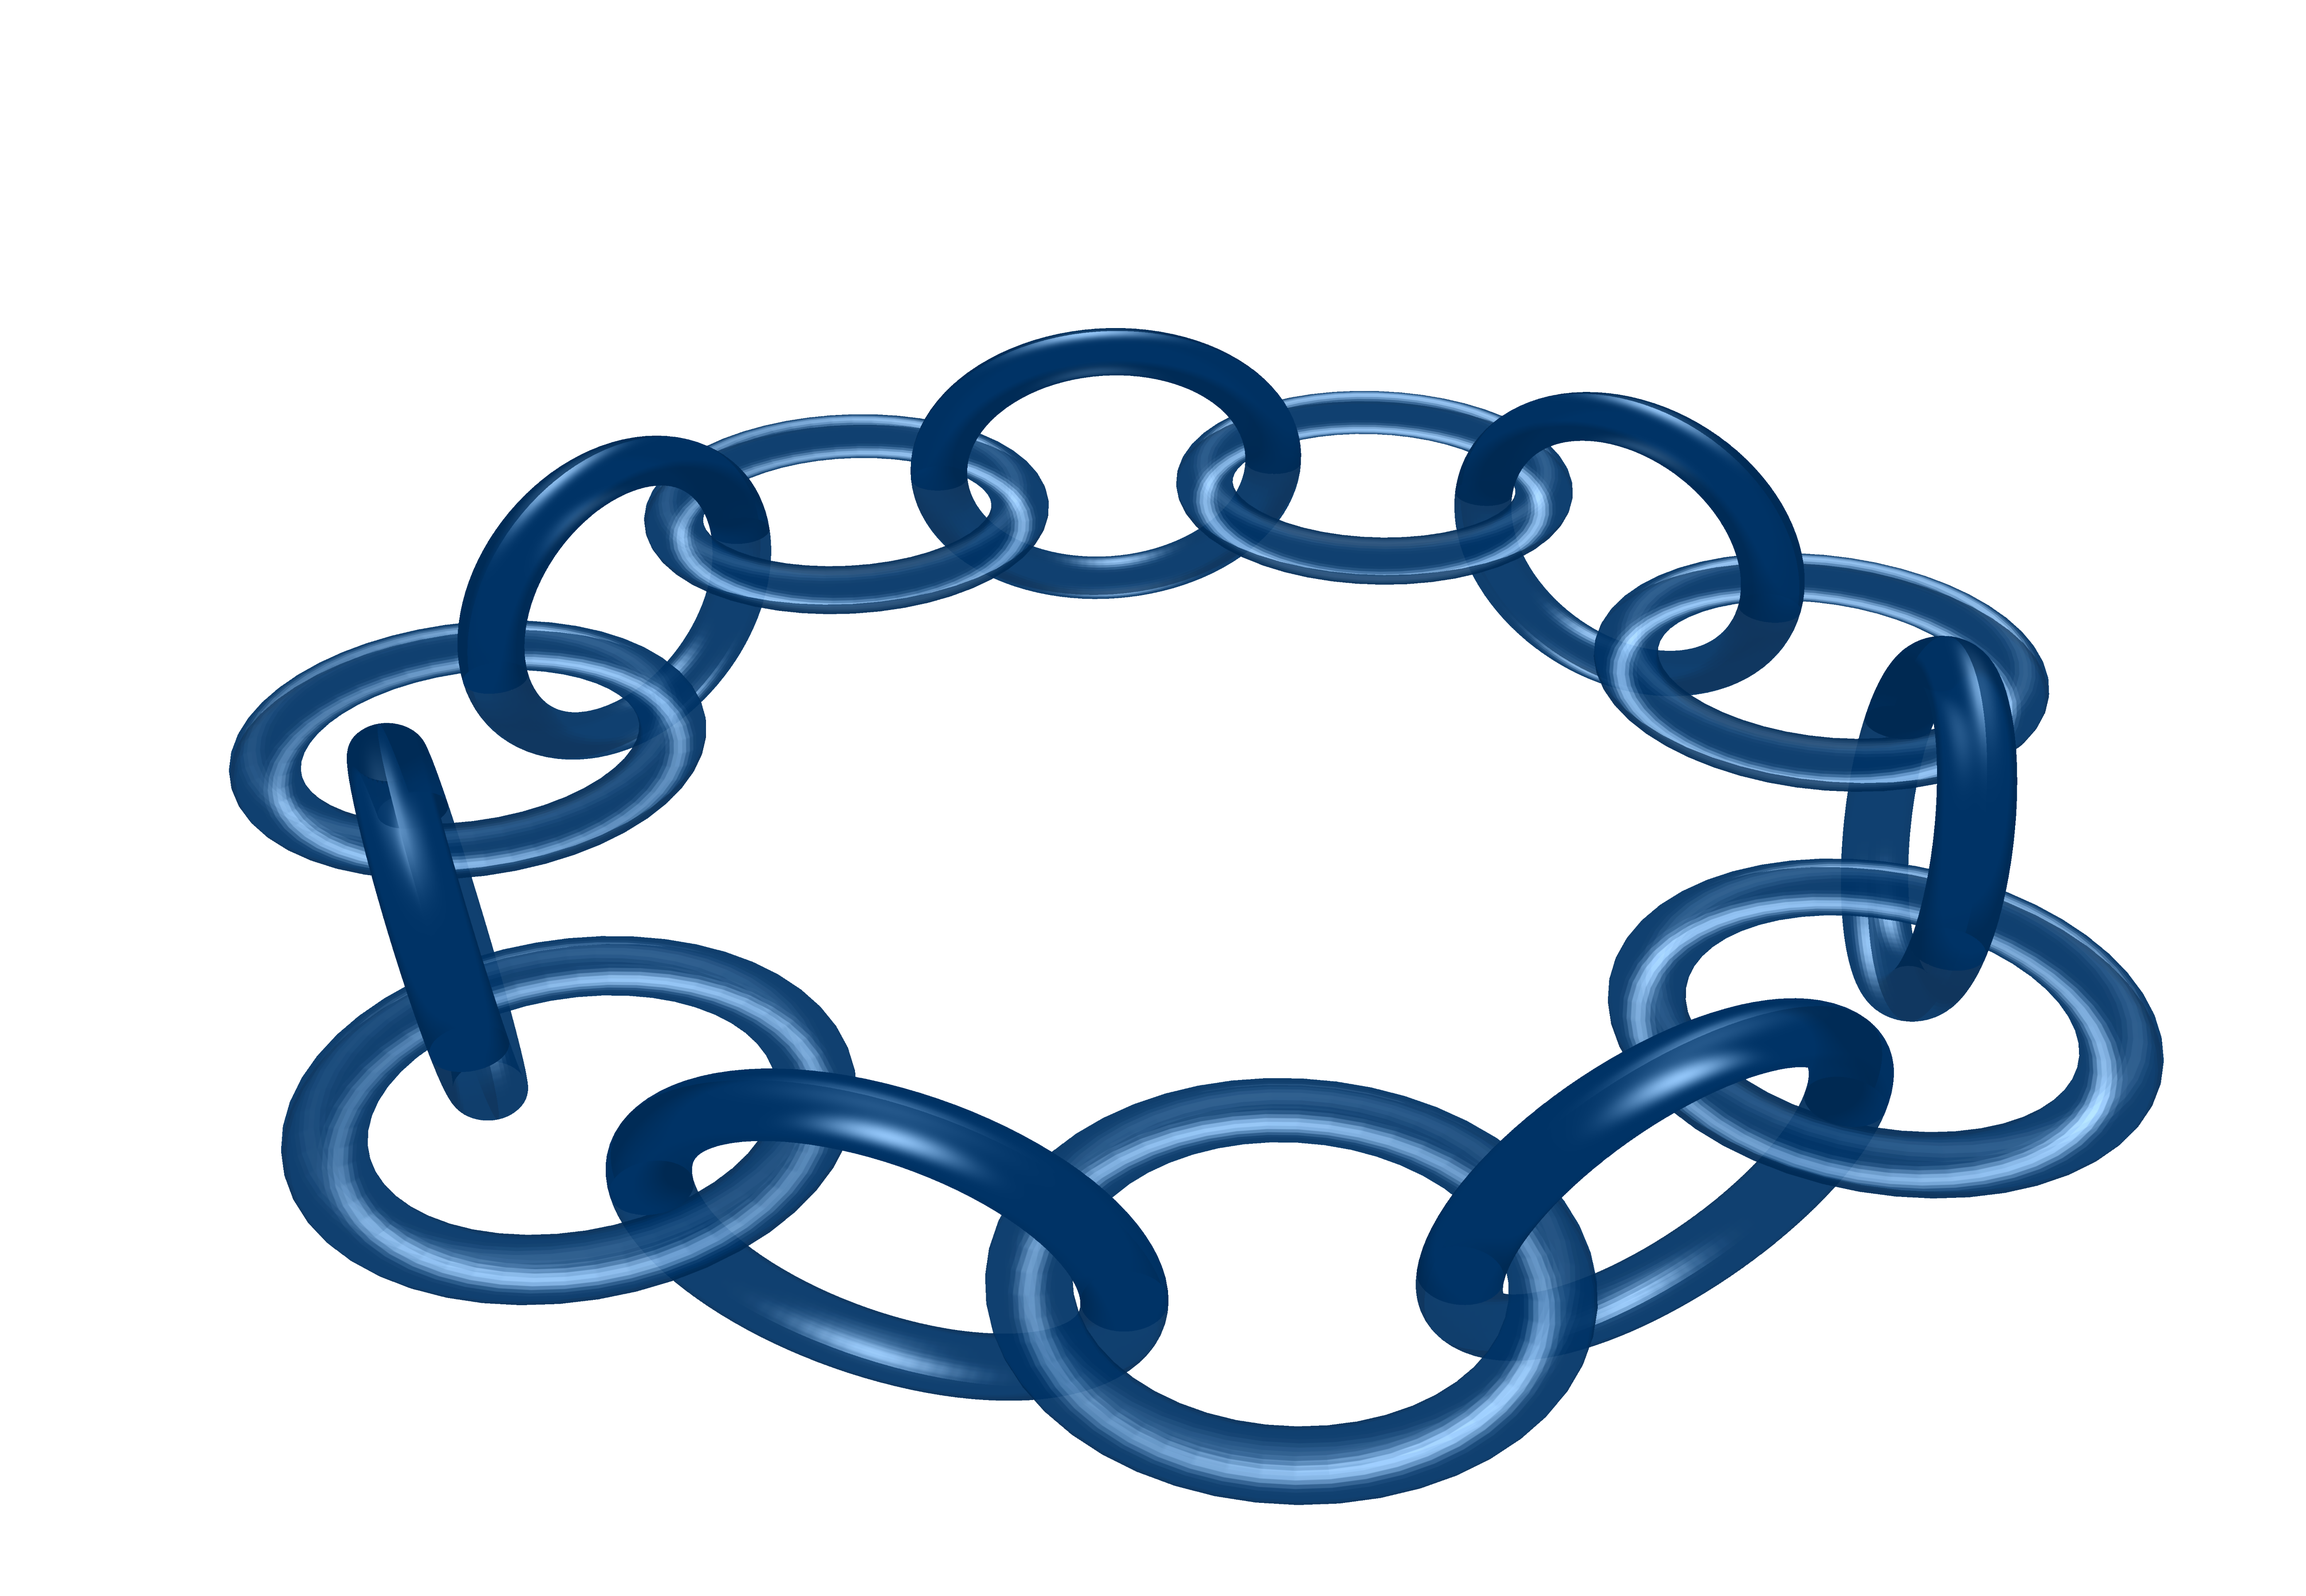
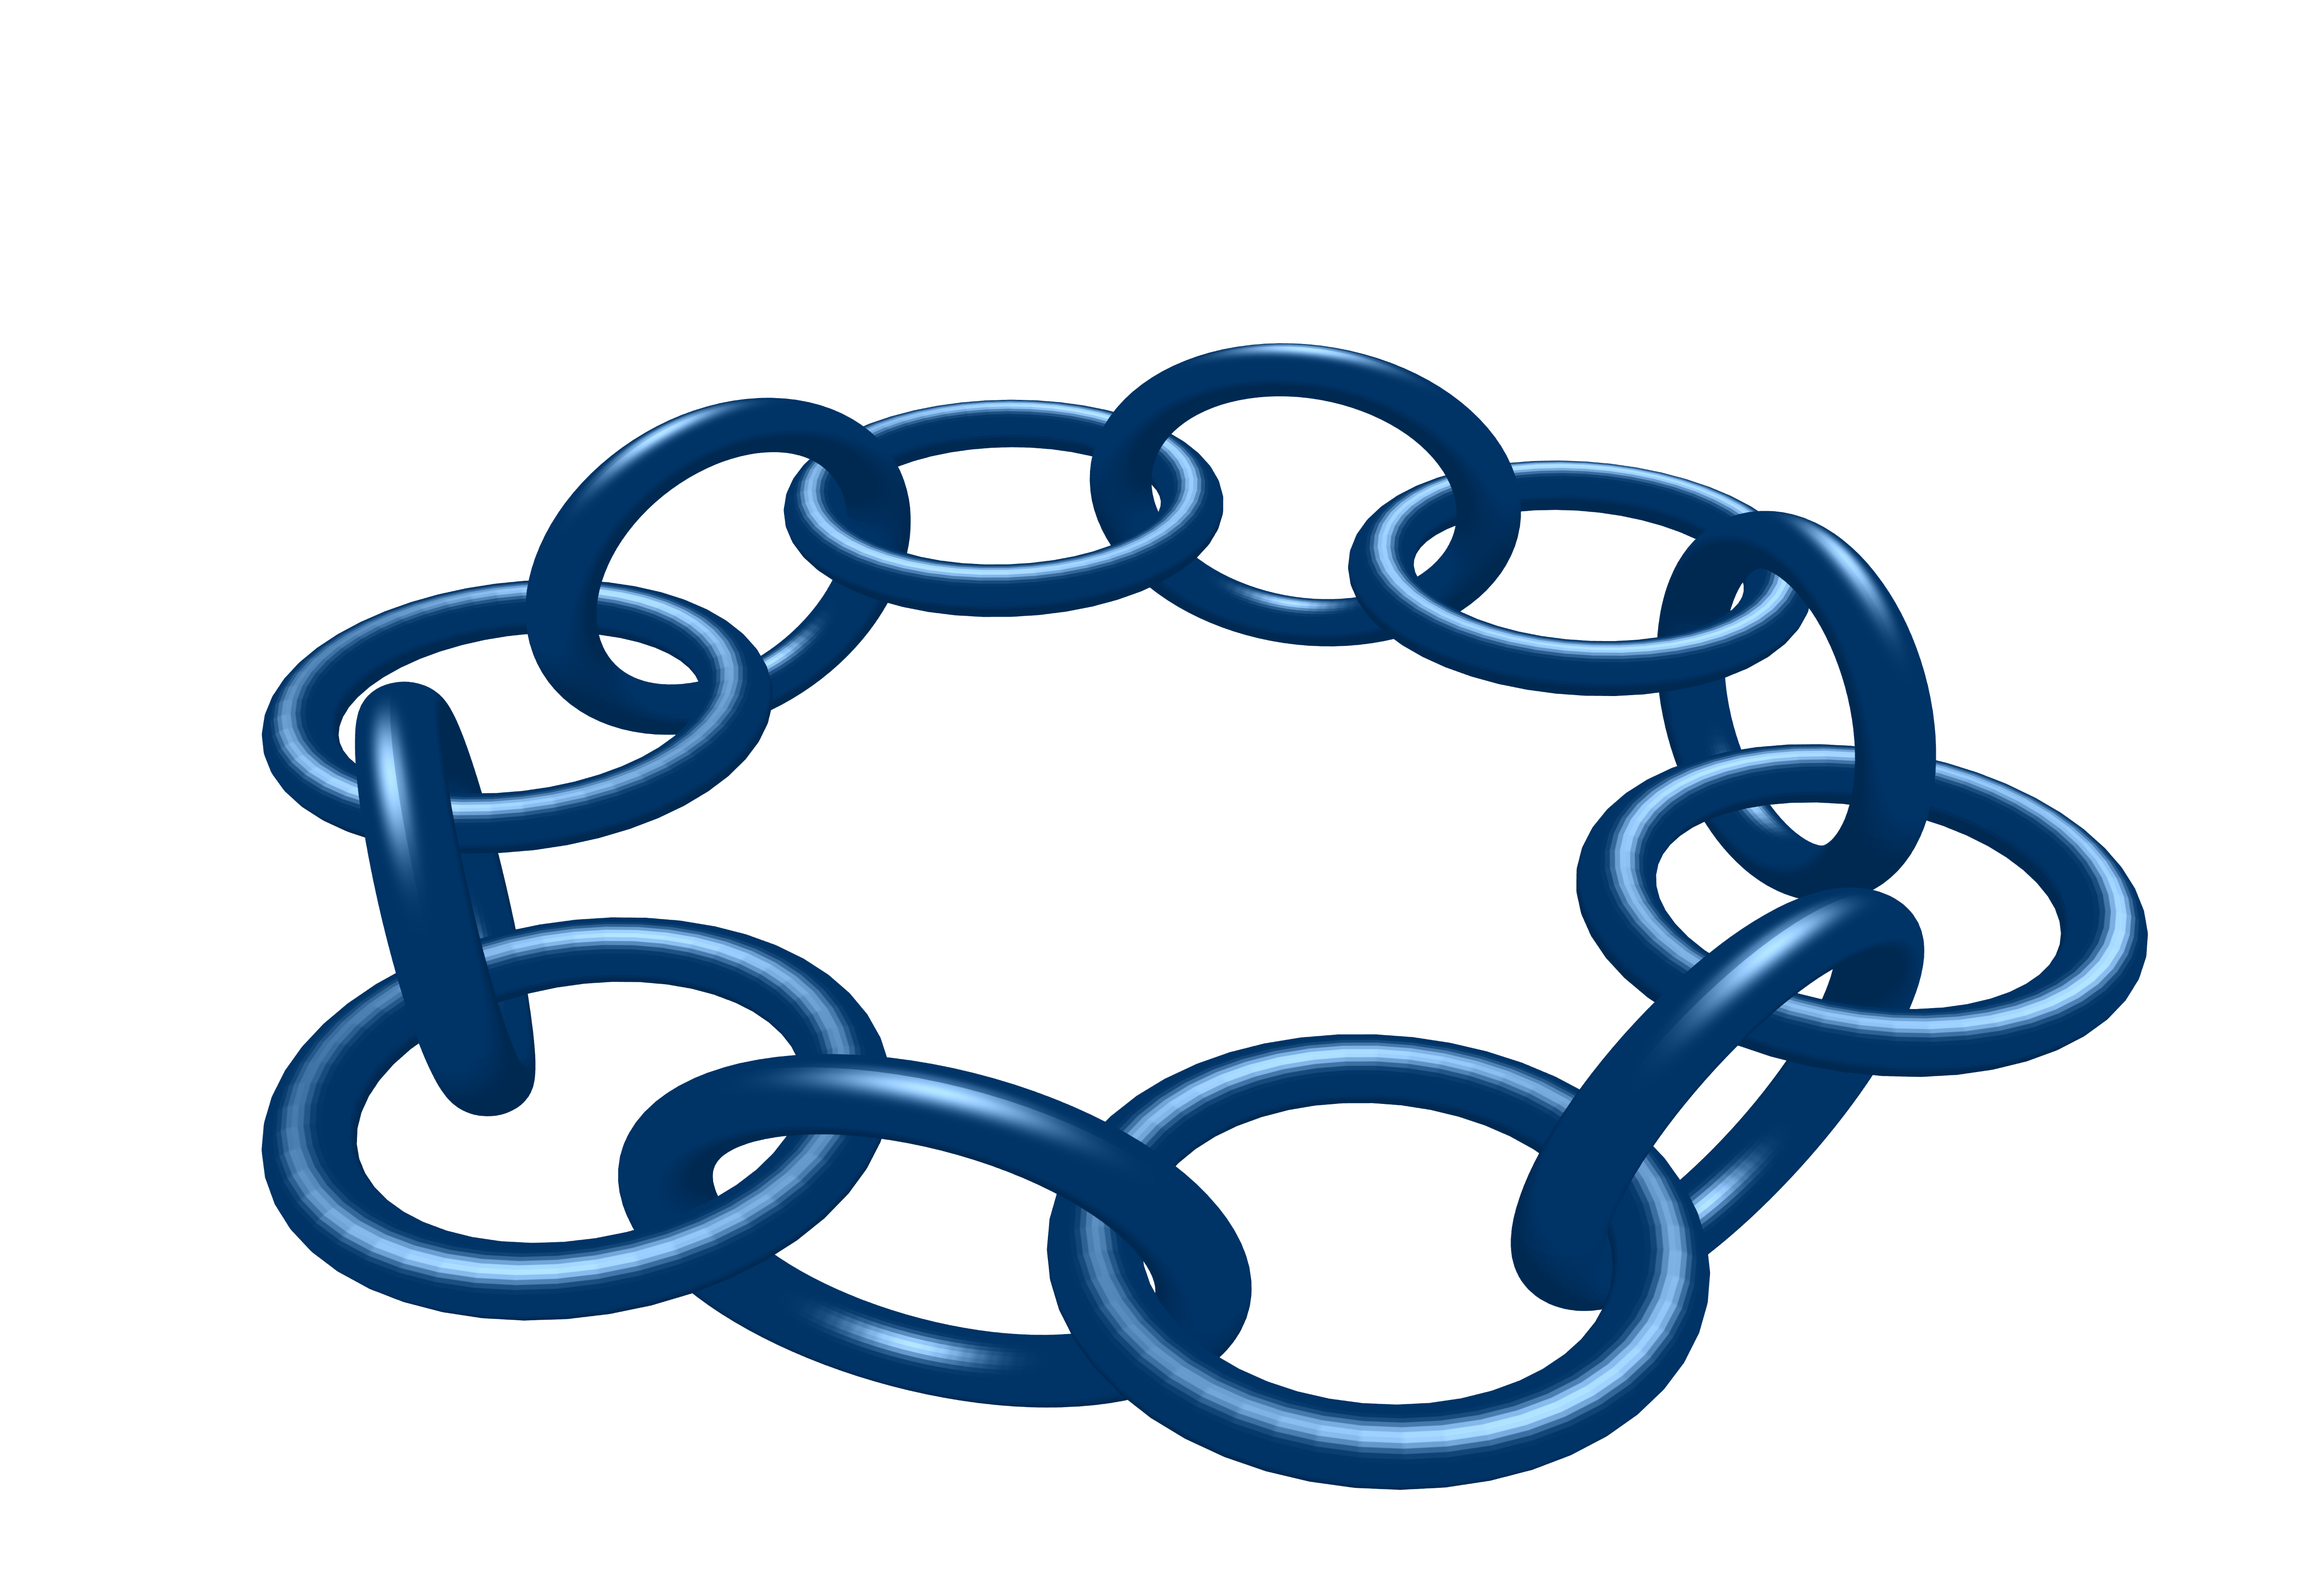
add level 3 to class and implementation

Changed region(s): [[0.0935, 0.1867, 0.9346, 0.9644]]

diff --git a/Antoines_NecklaceClass.py b/Antoines_NecklaceClass.py
@@ -8,13 +8,18 @@ class AntoineNecklace:
         self.N_l3 = N_l3
         self.tilt_angle_l1 = np.pi/2
         self.tilt_angle_l2 = np.pi/2
+        self.tilt_angle_l3 = np.pi/2
         self.lighting = [.2,.26,.3] #highlight, edge reflection, smoothness
-        self.color_alt_list = [
+        self.color_alt_list_l2 = [
             [[0, '#003366'], [1, '#003366']], # deep_blue
             [[0, '#A04606'], [1, '#A04606']]  # burnt_orange
         ]
+        self.color_alt_list_l3 = [
+            [[0, '#006666'], [1, '#006666']],
+            [[0, "#A04606"], [1, "#A04606"]]  # burnt_orange
+        ]
         self.color_alt_l2 = True
-        self.color_alt_l3 = False
+        self.color_alt_l3 = True
         self.color_choice = [[0, '#003366'], [1, '#003366']] #for just one color
         self.mesh_res = 30
         self.scale = 2
@@ -45,6 +50,7 @@ class AntoineNecklace:
         return (rotated_points[i].reshape(orig_shape) for i in range(3))
 
     # CORE METHODS: "Level" functions
+#=========================BUILDING ZERO LEVEL=================================+#
     def get_level_zero_necklace_tori(self,level_zero_toriRadius):
         theta = np.linspace(0, 2*np.pi, self.mesh_res)
         phi = np.linspace(0, 2*np.pi, self.mesh_res)
@@ -62,6 +68,7 @@ class AntoineNecklace:
         lightposition=dict(x=100, y=100, z=100)))
         return fig
 
+#=========================BUILDING FIRST LEVEL=================================+#
     def get_level_one_necklace_tori(self, parent_l1_C=14, trans = (0,0,0), global_rot = (0,0,0), construct_l2 = False, construct_l2_upper = False, construct_l2_lower = False):
         bottom_tori = []
         top_tori = []
@@ -167,8 +174,8 @@ class AntoineNecklace:
                 ), colorscale = self.color_choice,
                 lightposition=dict(x=100, y=100, z=100)))
             return fig
-
-    def get_level_two_necklace_tori(self, parent_l2_C):
+#=========================BUILDING SECOND LEVEL=================================+#
+    def get_level_two_necklace_tori(self, parent_l2_C, construct_l3 = False):
         #find inner 
         level_one_toriRadius = self._get_small_tori_radius(self.N_l2, parent_C = parent_l2_C)
         #we need to split into sideways and up and down
@@ -180,7 +187,6 @@ class AntoineNecklace:
             tilt1 = (self.tilt_angle_l2)*(i%2)
             if (i%2 == 1):
                 #split into upper and lower
-                #alpha_top = (alpha1/2)+np.pi/2
                 transx = parent_l2_C * np.cos(alpha1)
                 transy = parent_l2_C * np.sin(alpha1)
                 tori_data_upper = self.get_level_one_necklace_tori(parent_l1_C=level_one_toriRadius, global_rot = (0,tilt1,alpha1), trans = (transx,transy, 0), construct_l2 = True, construct_l2_upper = True)
@@ -192,23 +198,53 @@ class AntoineNecklace:
                 transy = parent_l2_C * np.sin(alpha1)
                 tori_data_sideways = self.get_level_one_necklace_tori(parent_l1_C=level_one_toriRadius, global_rot = (0,tilt1,alpha1), trans = (transx,transy, 0), construct_l2 = True)
                 sideways_tori.extend(tori_data_sideways)
-
-        tori_all = [lower_tori, sideways_tori, upper_tori]
+        if construct_l3 == True:
+            return [lower_tori, sideways_tori, upper_tori]
+        else:
+            tori_all = [lower_tori, sideways_tori, upper_tori]
+            fig = go.Figure()
+            for j in range(len(tori_all)):
+                if self.color_alt_l2 == True:
+                    color_scale = self.color_alt_list_l2[j%2]
+                else:
+                    color_scale = self.color_choice
+                for x, y, z in tori_all[j]:
+                    fig.add_trace(go.Surface(x=x, y=y, z=z, showscale=False, opacity=self.opacity,lighting=dict(
+                        specular=self.lighting[0],     # Increases "highlight" brightness
+                        fresnel=self.lighting[1],      # Increases edge reflections
+                        roughness=self.lighting[2]     # Makes it look smoother/shinier
+                    ), colorscale = color_scale,
+                    lightposition=dict(x=100, y=100, z=100)))
+            return fig
+#=========================BUILDING THIRD LEVEL=================================+#
+    def get_level_three_necklace_tori(self, parent_l3_C):
+        level_two_toriRadius = self._get_small_tori_radius(self.N_l3, parent_C = parent_l3_C)
         fig = go.Figure()
-        for j in range(len(tori_all)):
-            if self.color_alt_l2 == True:
-                color_scale = self.color_alt_list[j%2]
+        for i in range(self.N_l3):
+            alpha3 = (2 * np.pi * i) / self.N_l3
+            tilt3 = (self.tilt_angle_l3)*(i%2)
+            tori_all = self.get_level_two_necklace_tori(parent_l2_C = level_two_toriRadius, construct_l3 = True)
+            tori_new = []
+            if self.color_alt_l3 == True:
+                color_scale = self.color_alt_list_l3[i%2]
             else:
                 color_scale = self.color_choice
-            for x, y, z in tori_all[j]:
-                fig.add_trace(go.Surface(x=x, y=y, z=z, showscale=False, opacity=self.opacity,lighting=dict(
-                    specular=self.lighting[0],     # Increases "highlight" brightness
-                    fresnel=self.lighting[1],      # Increases edge reflections
-                    roughness=self.lighting[2]     # Makes it look smoother/shinier
-                ), colorscale = color_scale,
-                lightposition=dict(x=100, y=100, z=100)))
+            for j in range(len(tori_all)):
+                for x,y,z in tori_all[j]:
+                    transx = parent_l3_C * np.cos(alpha3)
+                    transy = parent_l3_C * np.sin(alpha3)
+                    tx, ty, tz = self.rotate_coords(x, y, z,(0,tilt3, alpha3))
+                    tx = tx + transx
+                    ty = ty + transy
+                    fig.add_trace(go.Surface(x=tx, y=ty, z=tz, showscale=False, opacity=self.opacity,lighting=dict(
+                        specular=self.lighting[0],     # Increases "highlight" brightness
+                        fresnel=self.lighting[1],      # Increases edge reflections
+                        roughness=self.lighting[2]     # Makes it look smoother/shinier
+                    ), colorscale = color_scale,
+                    lightposition=dict(x=100, y=100, z=100)))
         return fig
-    
+#===============================================================================#
+
     def get_figure(self, fig):
         # Higher numbers move the camera further away
         # x, y, z determine the angle
@@ -232,11 +268,9 @@ class AntoineNecklace:
                     showticklabels=False, 
                     showbackground=False, 
                     title=''),aspectmode='data'),
-            # Optional: Change the overall plot background color
             paper_bgcolor=self.background_color, 
             plot_bgcolor=self.background_grid_color,
-            margin=dict(l=0, r=0, b=0, t=0)
-        )
+            margin=dict(l=0, r=0, b=0, t=0))
         #fig.show()
         print("Writing to file...")
         fig.write_image(self.file_name, scale=self.scale)
@@ -257,4 +291,8 @@ class AntoineNecklace:
 
     def generate_level_two(self, parent_l2_C):
         fig = self.get_level_two_necklace_tori(parent_l2_C)
+        self.get_figure(fig)
+
+    def generate_level_three(self, parent_l3_C):
+        fig = self.get_level_three_necklace_tori(parent_l3_C)
         self.get_figure(fig)
